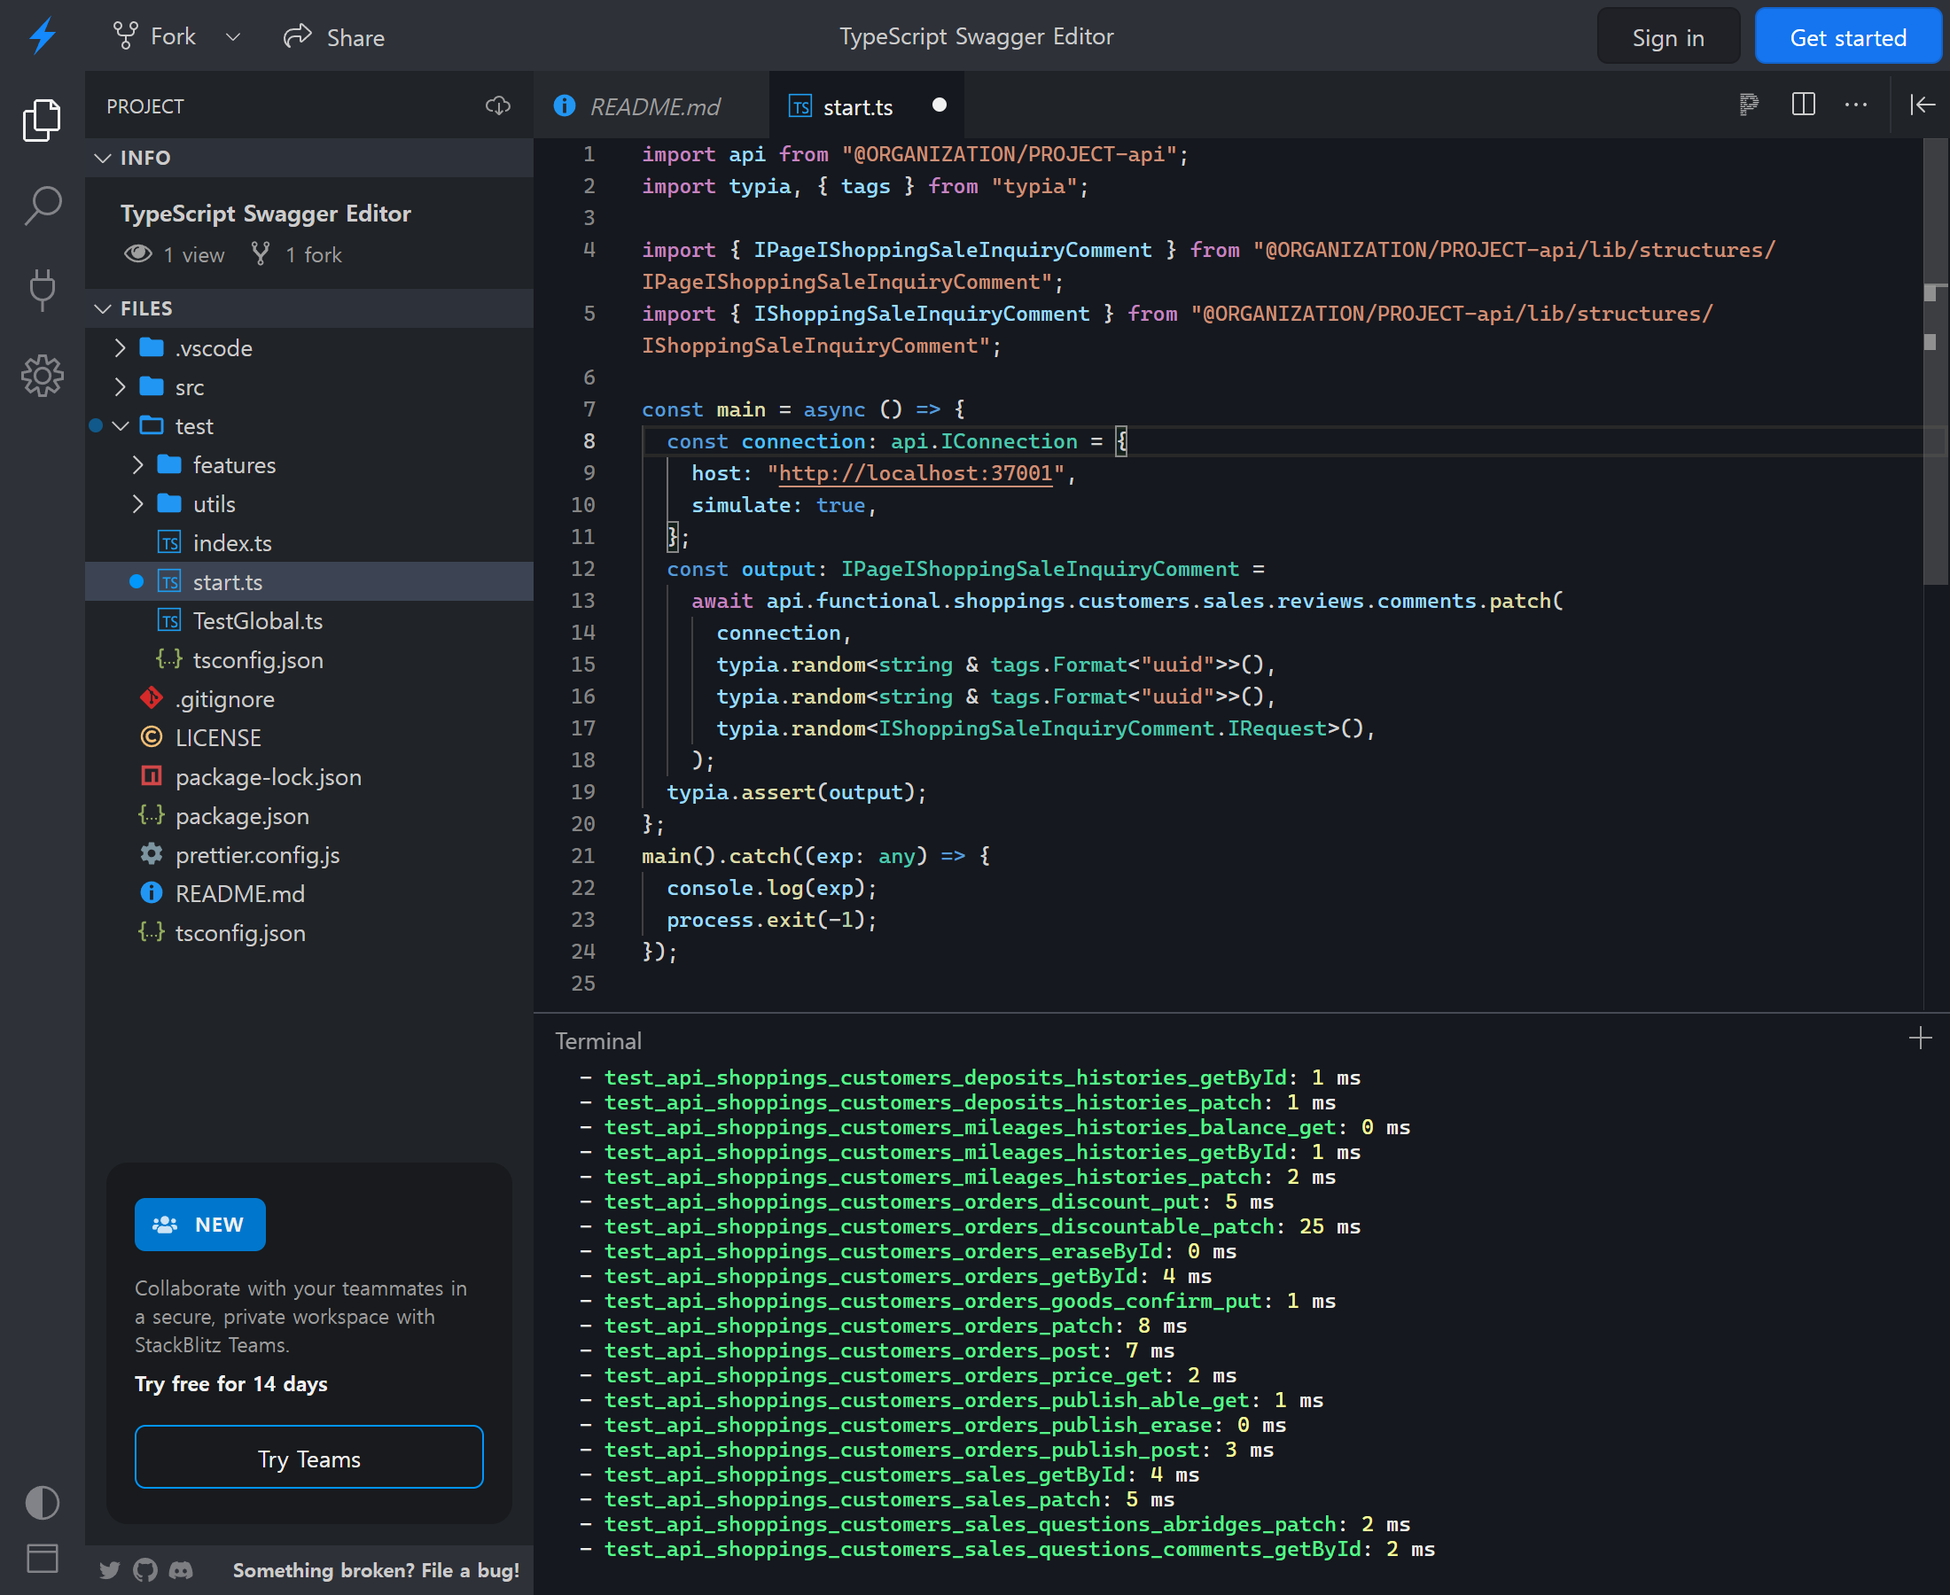
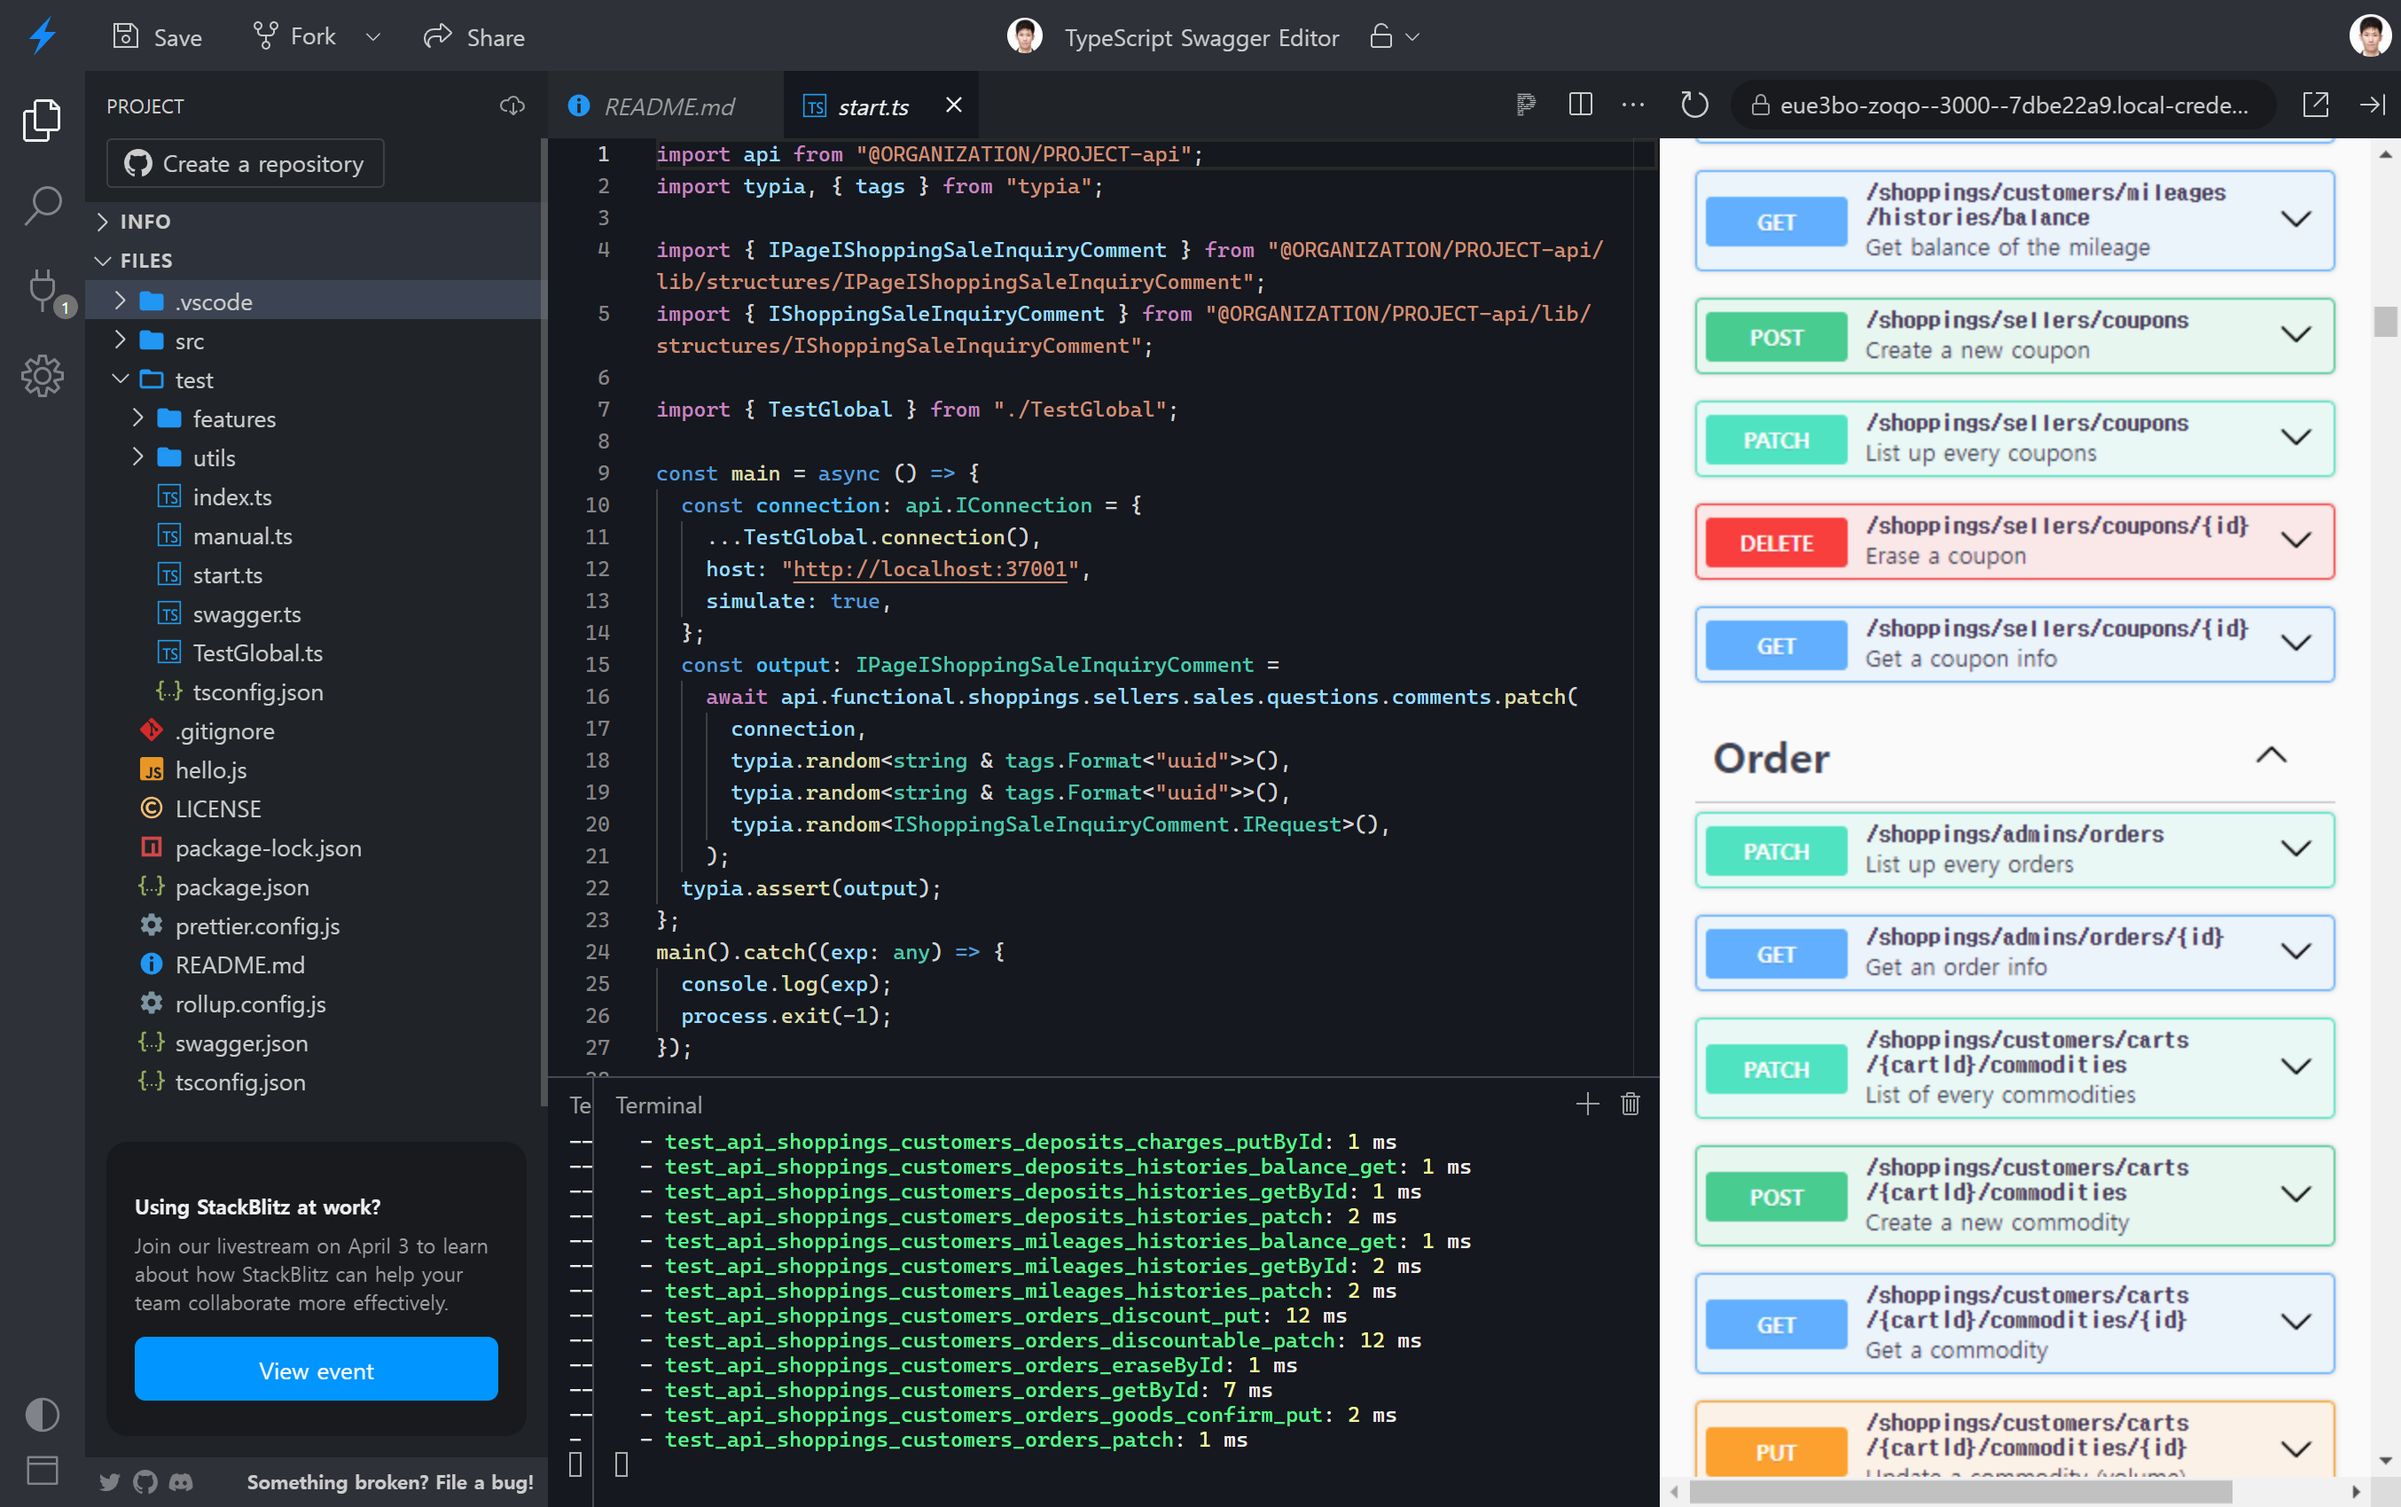
`@nestia/editor` contains swagger-ui

diff --git a/website/src/movies/editor/EditorMovie.tsx b/website/src/movies/editor/EditorMovie.tsx
@@ -95,12 +95,9 @@ const EditorMovie = (props: { mode: "nest" | "sdk" }) => {
       {
         newWindow: true,
         openFile: "README.md,test/start.ts",
-        startScript:
-          mode === "sdk"
-            ? simulate
-              ? "test:simulate"
-              : "test"
-            : "build:test,test",
+        startScript: (mode === "sdk"
+          ? ["swagger", "hello"]
+          : ["build:test,test", ""]) as any,
       },
     );
     setProgress(false);

diff --git a/packages/migrate/src/MigrateApplication.ts b/packages/migrate/src/MigrateApplication.ts
@@ -65,6 +65,11 @@ export class MigrateApplication {
         ...MigrateApiProgrammer.write(program),
         MigrateApiStartProgrammer.write(program),
         ...(config.e2e ? MigrateE2eProgrammer.write(program) : []),
+        {
+          location: "",
+          file: "swagger.json",
+          content: JSON.stringify(this.swagger, null, 2),
+        },
       ],
     };
   }
